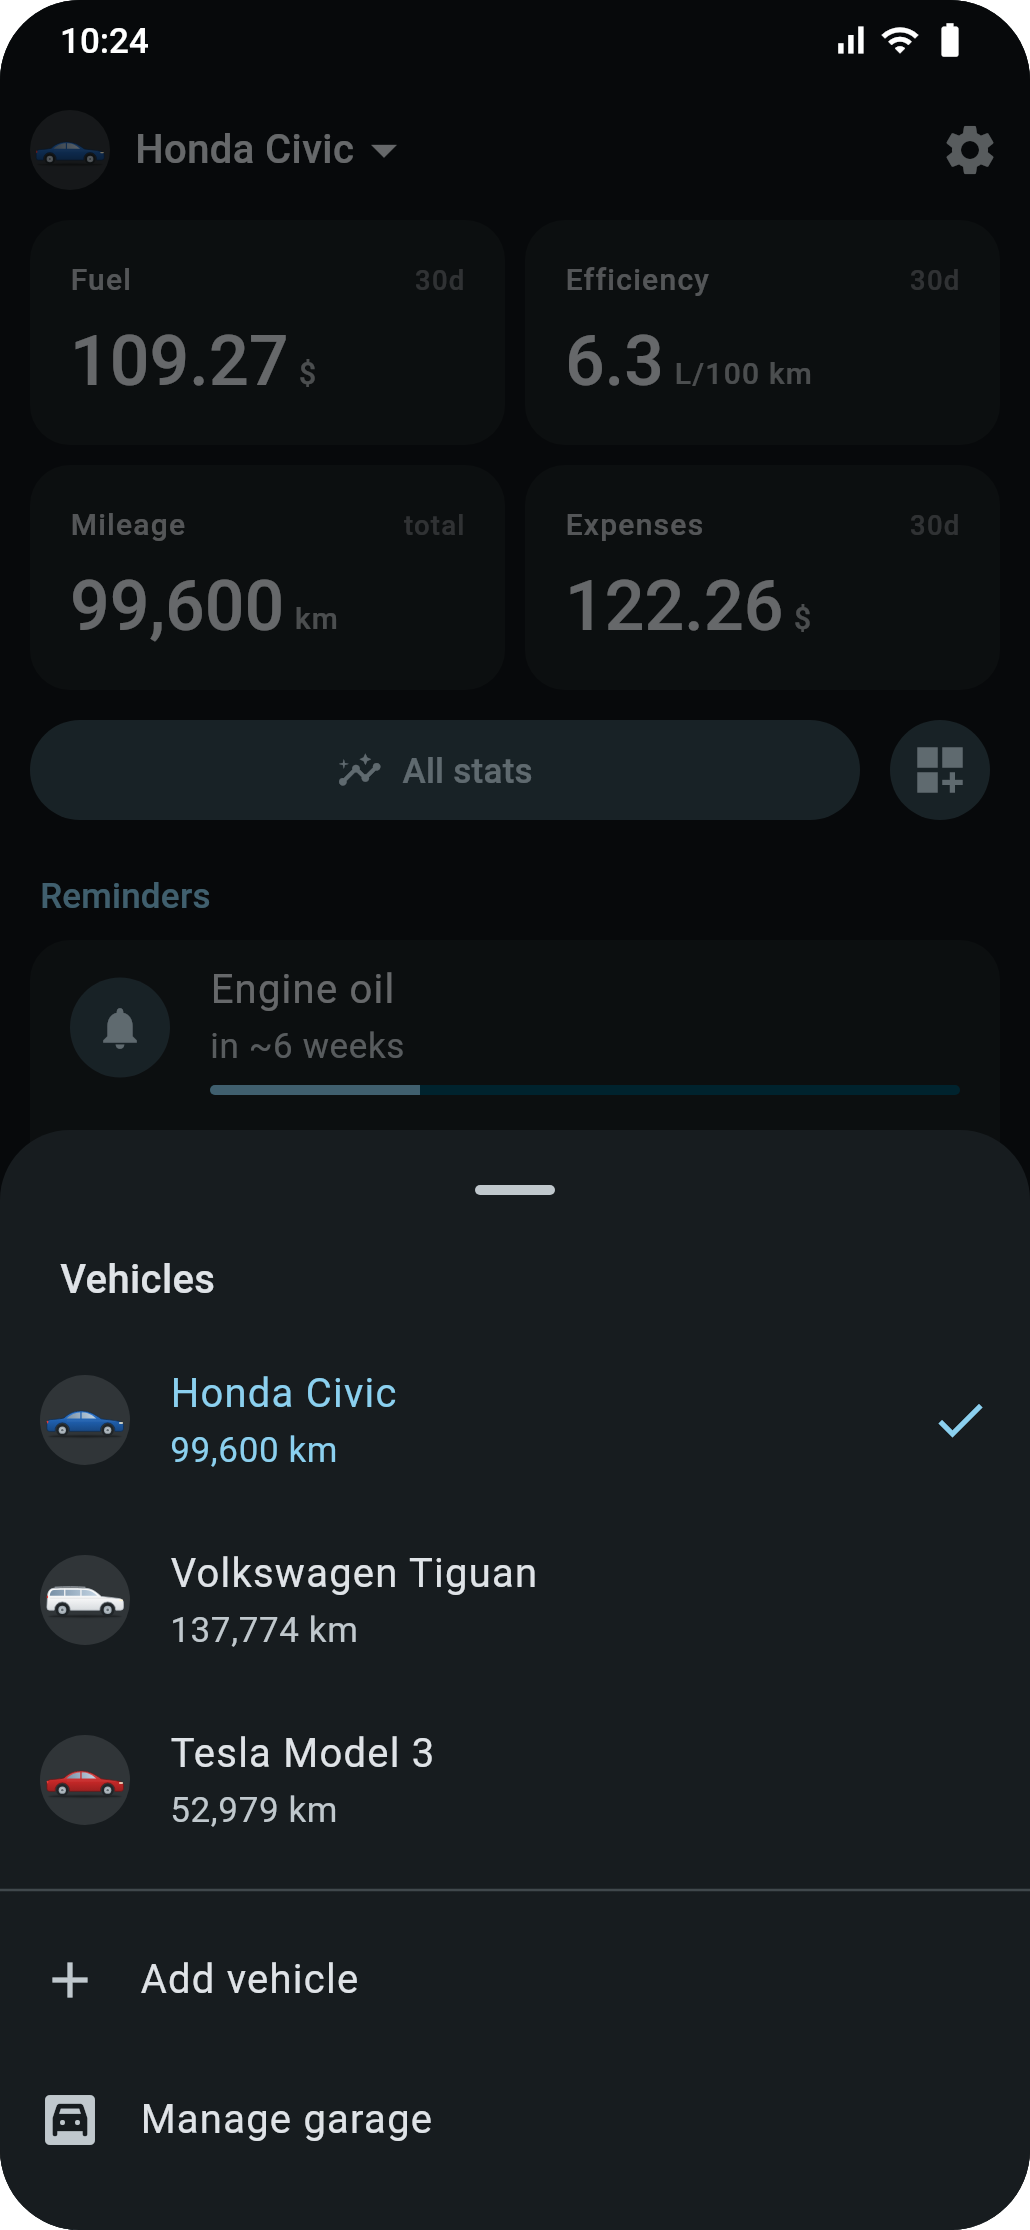
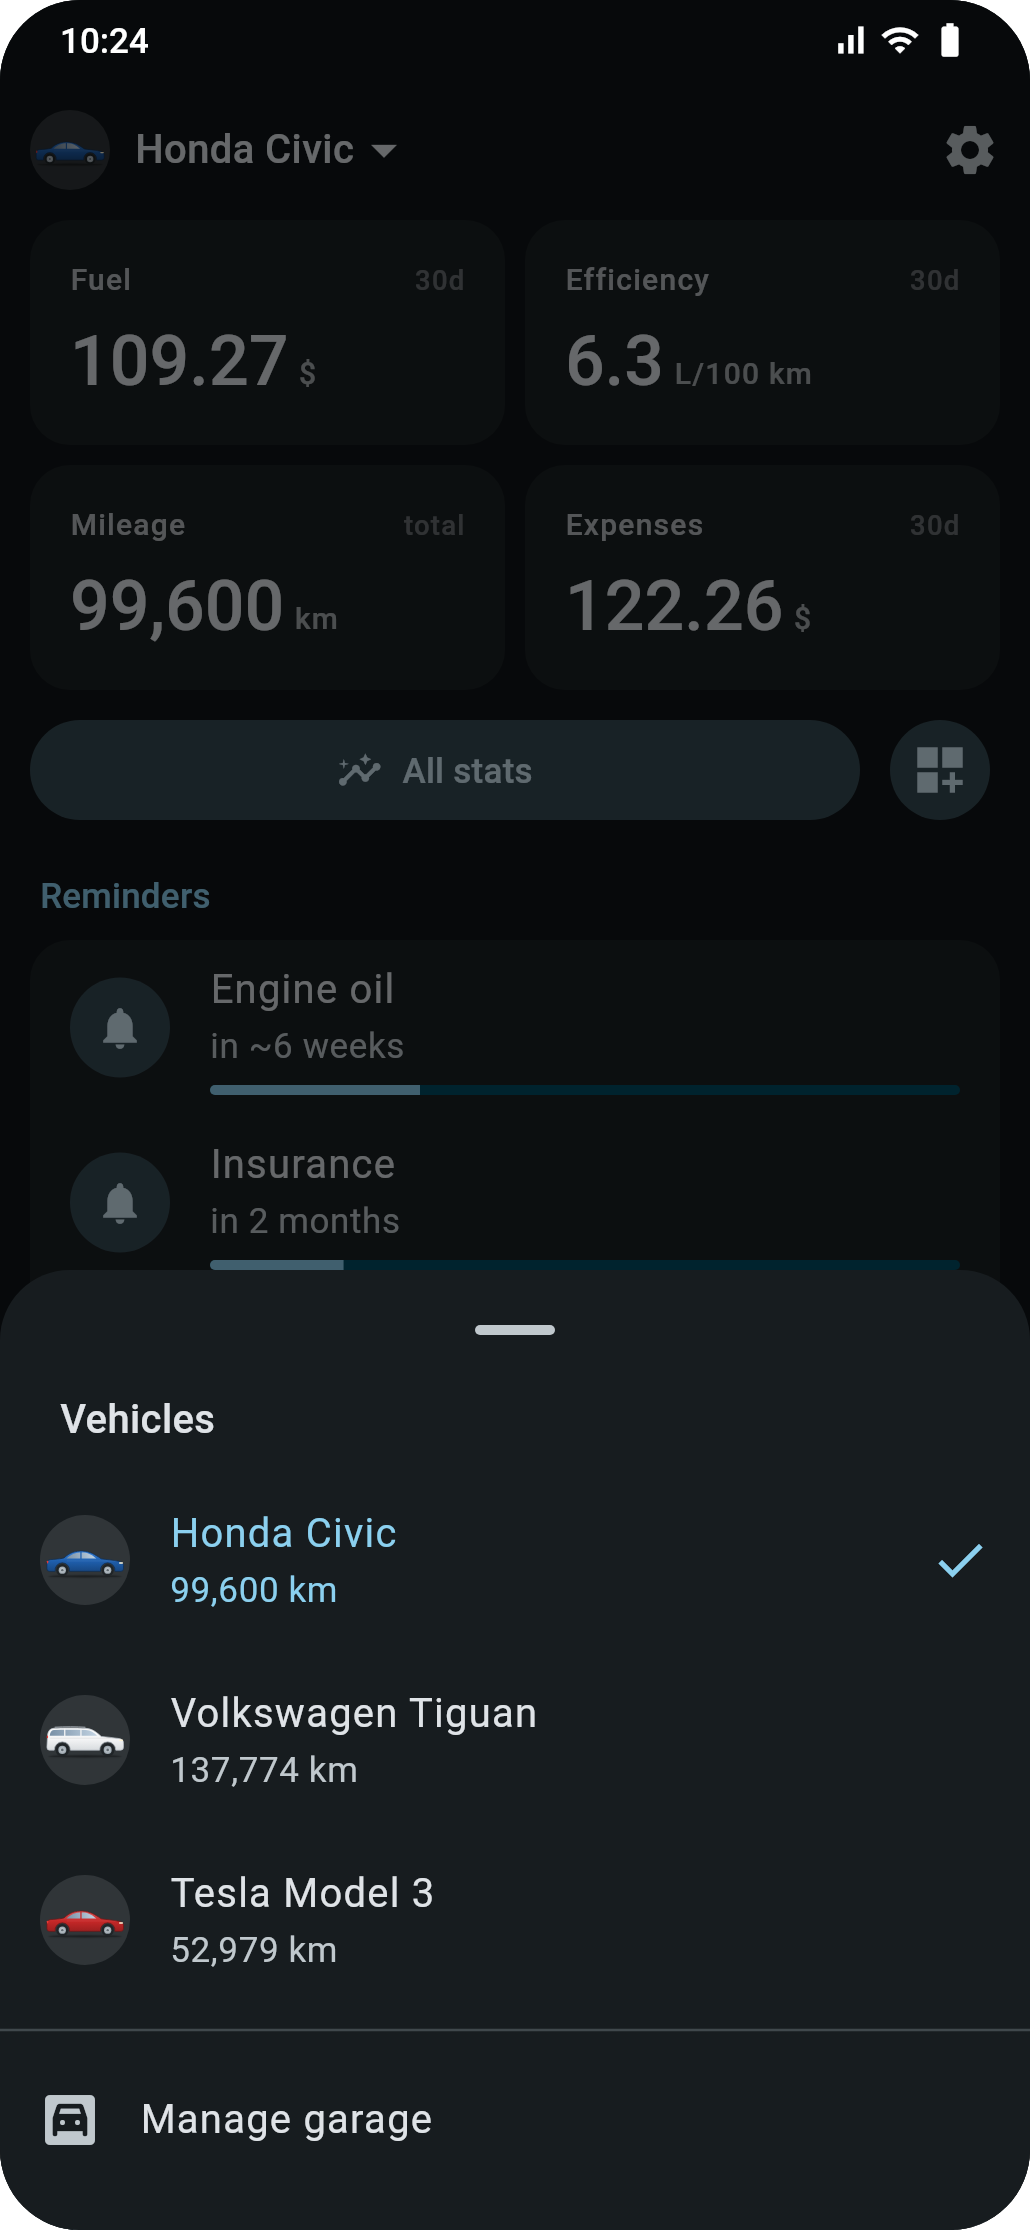
Vehicle selector: drop Add vehicle (it lives in Manage garage)
Screenshots regenerated.

Claude-Session: https://claude.ai/code/session_01F8422znuTrndrCgUezhEd8

diff --git a/lib/features/vehicles/presentation/vehicle_switcher.dart b/lib/features/vehicles/presentation/vehicle_switcher.dart
@@ -59,7 +59,7 @@ Future<void> showVehiclePicker(BuildContext context, {String? currentId}) {
   );
 }
 
-/// Vehicle list with "add" and "manage" actions; used by the picker sheet and the wide-screen side panel.
+/// Vehicle list with a "manage garage" action (vehicles are added there); used by the picker sheet and the wide-screen side panel.
 class VehicleList extends ConsumerWidget {
   const VehicleList({super.key, this.currentId, this.onNavigate, this.showTitle = true});
 
@@ -97,11 +97,6 @@ class VehicleList extends ConsumerWidget {
             onTap: () => navigate((c) => c.go(Routes.home(v.id))),
           ),
         const Divider(),
-        ListTile(
-          leading: const Icon(Icons.add),
-          title: Text(l10n.addVehicle),
-          onTap: () => navigate((c) => c.push(Routes.newVehicle)),
-        ),
         ListTile(
           leading: const Icon(Icons.garage),
           title: Text(l10n.manageGarage),

diff --git a/CHANGELOG.md b/CHANGELOG.md
@@ -4,6 +4,11 @@ Each section becomes the notes of the GitHub release with that version
 (`tool/changelog.sh <version>`; see docs/RELEASING.md). Newest first; rename *Unreleased* to the
 version when releasing.
 
+## 2.8.1
+
+- The vehicle selector (and the side panel on wide screens) no longer has *Add vehicle*; add vehicles
+  in *Manage garage*.
+
 ## 2.8.0
 
 - **Notifications by vehicle** (Settings → Notifications → By vehicle): turn a vehicle's reminders
